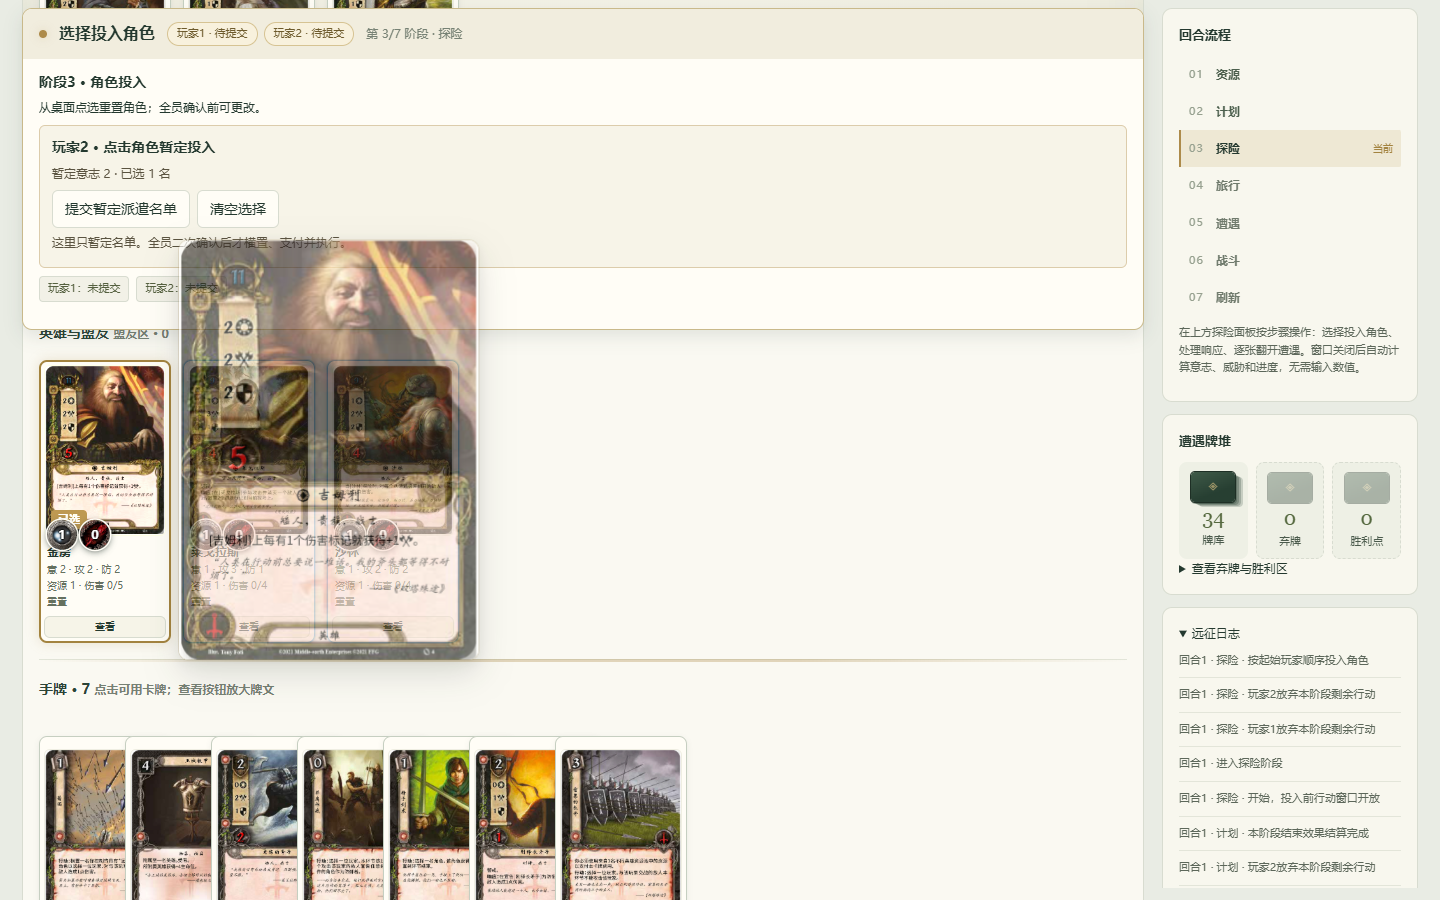
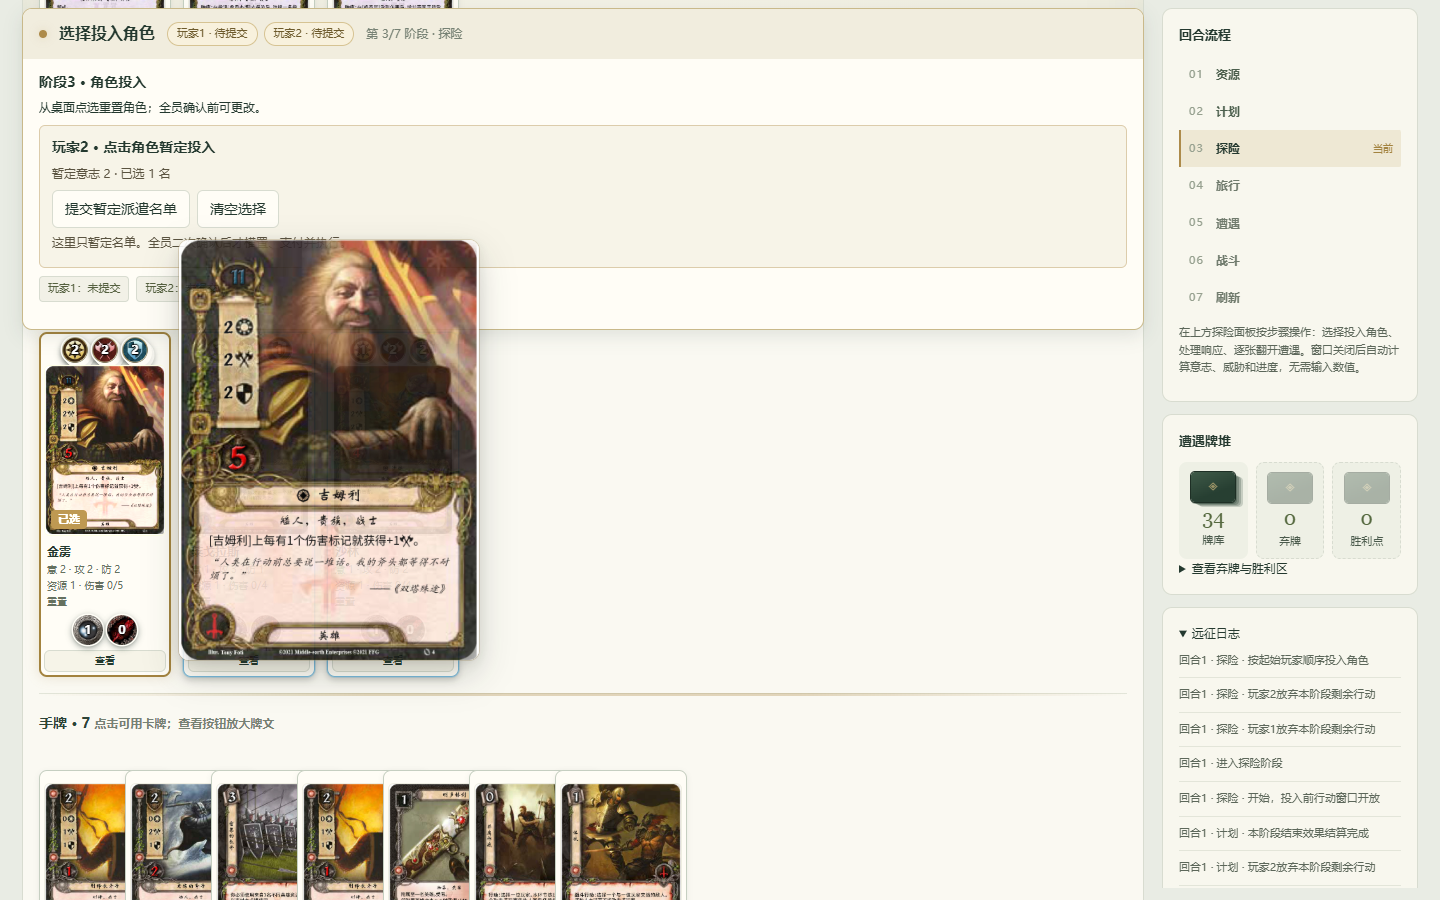
v0.15.33 代币布局对齐诡镇网页版：属性代币（意志/攻击/防御）在角色卡上方、状态代币在卡下方，不再遮挡文字；属性加成（附属永久/事件临时）计入显示并可还原

Changed region(s): [[0.0312, 0.2489, 0.6562, 1.0], [0.0312, 0.0, 0.3125, 0.0311], [0.0312, 0.56, 0.0938, 0.6222]]

diff --git a/index.html b/index.html
@@ -459,21 +459,23 @@ body:has(.desktop-table) .expedition-title h1{letter-spacing:-.01em}
  .deck-counts{grid-template-columns:repeat(3,1fr)}
 }
 
-/* 7. v0.15.32 诡镇网页版式代币：圆形图钉在卡面下缘（半压卡面），数字居中；
+/* 7. v0.15.33 诡镇网页版式代币：属性代币（意志/攻击/防御）独立一行在角色卡上方，
+      状态代币（资源/伤害/进度）独立一行在卡牌下方——均为流式行，不再遮挡卡名与牌文；
       同型多枚层叠错位；资源=英雄常显、盟友>0 显，伤害/进度常显（含 0，对齐原版）。 */
-.table-card-caption{position:relative}
-.card-tokens{position:absolute;top:0;left:3px;transform:translateY(-54%);display:flex;gap:3px;z-index:4;pointer-events:none;--tk:30px}
+.card-tokens{display:flex;gap:4px;justify-content:center;align-items:center;flex-wrap:wrap;padding:2px 0;pointer-events:none;--tk:30px}
+.card-tokens.attr-tokens{--tk:26px;padding-top:0}
 .tk{position:relative;width:var(--tk);height:var(--tk);flex:none;border-radius:50%;filter:drop-shadow(0 2px 3px #24392f66)}
 .tk img{width:100%;height:100%;border-radius:50%;display:block;box-shadow:0 0 0 1.5px #fffdf6,0 1px 3px #0008}
 .tk b{position:absolute;inset:0;display:grid;place-items:center;font-size:12px;font-weight:800;color:#fff;line-height:1;font-variant-numeric:tabular-nums;text-shadow:0 1px 1px #000,0 0 3px #000c,1px 0 1px #000a,-1px 0 1px #000a,0 -1px 1px #000a}
 .tk.stack img{box-shadow:0 0 0 1.5px #fffdf6,2.5px 2.5px 0 1.5px #fffdf6,5px 5px 0 1.5px #fffdf6cc,0 3px 5px #0008}
 .tk img:active{cursor:grabbing}
 .tk img:hover{cursor:grab}
-.peer-cards .card-tokens{--tk:26px}
+.peer-cards .card-tokens{--tk:24px}
+.peer-cards .card-tokens.attr-tokens{--tk:22px}
 .quest-art-wrap{position:relative;width:var(--card-w);min-width:0;flex:none}
 .quest-tokens{position:absolute;left:4px;bottom:4px;transform:none}
-@media(min-width:1700px){.card-tokens{--tk:34px}.peer-cards .card-tokens{--tk:28px}}
-@media(max-width:1100px){.card-tokens{--tk:26px}}
+@media(min-width:1700px){.card-tokens{--tk:34px}.card-tokens.attr-tokens{--tk:28px}.peer-cards .card-tokens{--tk:28px}}
+@media(max-width:1100px){.card-tokens{--tk:26px}.card-tokens.attr-tokens{--tk:23px}}
 @media(max-width:760px){.card-tokens{--tk:24px}}
 
 </style></head><body>
@@ -8683,16 +8685,17 @@ const WindowUI=(()=>{
 </script><script>
 /* Tabletop view: UI drafts never pay, exhaust, reveal, or bypass phase validation. */
 /* 界面版本徽标唯一来源：须与 CHANGELOG.md 最新条目标题一致（planning-dom-tests 有校验）。 */
-const APP_VERSION='v0.15.32';
+const APP_VERSION='v0.15.33';
 const DesktopUI=(()=>{
  const E=ScenarioEngine,R=E.planning,Q=E.questing,C=E.combat,esc=x=>String(x??'').replace(/[&<>"']/g,c=>({'&':'&amp;','<':'&lt;','>':'&gt;','"':'&quot;',"'":'&#39;'}[c]));
  let combatDraft={key:'',target:null,ids:[]},draftState=null;
  const live=s=>s.players.filter(p=>!p.eliminated);
  const who=(s,id)=>esc(s.players[id]?.name||('玩家'+(id+1)));
  const chip=(text,tone='wait')=>`<span class="op-chip ${tone}">${esc(text)}</span>`;
- /* 诡镇网页版式代币：圆形图钉在卡面下缘，数字居中，同型多枚层叠。数量由规则引擎结算，拖放仅作视觉表现。 */
- const tk=(type,n)=>`<span class="tk tk-${type}${n>1?' stack':''}" data-n="${n}"><img src="assets/tokens/${type}.png" alt="" draggable="true" data-token="${type}"><b>${n}</b></span>`;
- const tokenRow=inner=>inner?`<div class="card-tokens" aria-hidden="true">${inner}</div>`:'';
+ /* 诡镇网页版式代币：圆形徽章、数字居中，同型多枚层叠。数量由规则引擎结算，拖放仅作视觉表现。
+    属性代币（意志/攻击/防御）是静态数值快照，不参与拖放。 */
+ const tk=(type,n,drag=true)=>`<span class="tk tk-${type}${n>1?' stack':''}" data-n="${n}"><img src="assets/tokens/${type}.png" alt="" ${drag?`draggable="true" data-token="${type}"`:''}><b>${n}</b></span>`;
+ const tokenRow=(cls,inner)=>inner?`<div class="card-tokens ${cls}" aria-hidden="true">${inner}</div>`:'';
  const chipRow=(s,order,done,ok,wait)=>(order||[]).map(id=>`<span class="op-chip ${(done||[]).includes(id)?'done':'wait'}">${who(s,id)} · ${(done||[]).includes(id)?ok:wait}</span>`).join('');
  const b=(label,kind,args='',disabled=false)=>`<button data-action="desktop" data-desktop="${kind}" ${args} ${disabled?'disabled':''}>${esc(label)}</button>`;
  function mode(s,pid){if(s.status!=='playing'||s.pending.length||R.context(s)?.queue?.length||R.context(s)?.tasks?.length)return null;
@@ -8705,7 +8708,7 @@ const DesktopUI=(()=>{
  function art(code){const rec=ImageLibrary.by[code],url=ImageLibrary.safeUrl(rec?.faces?.B||rec?.imageUrl);return url?`<img src="${esc(url)}" alt="${esc(rec.nameZhCard||rec.name||code)}" loading="lazy" referrerpolicy="no-referrer">`:'<span class="table-card-fallback">卡图暂缺<br>请查看牌名与数值</span>';}
  function inspect(code){return `<button class="inspect-card" data-action="images" data-image-action="open" data-code="${esc(code)}" aria-label="查看卡牌详情">查看</button>`;}
  function character(s,c,m){const h=c.state,v=R.find(s,c.uid)?R.stats(s,c.uid):c.meta,selectable=eligible(s,m,c.uid),selected=!!m&&ids(s,m).includes(c.uid),ability=R.abilitySpec(s,c.controller,c.uid),a=selectable?'data-action="desktop" data-desktop="pick"':!m&&ability.legal?'data-action="planning" data-plan="ability"':'',captured=c.kind==='hero'&&!s.rescued&&s.prisoner?.player===c.controller&&s.prisoner?.hero===h.index;
-  return `<article class="table-card character-card ${h.exhausted?'exhausted':''} ${selectable?'selectable':''} ${selected?'selected':''} ${h.destroyed||captured?'unavailable':''}" data-card-uid="${c.uid}"><button class="card-face" ${a} data-player="${c.controller}" data-uid="${c.uid}" ${a?'':'disabled'} aria-label="${esc(c.meta.nameZh)}${selectable?'，点击选择':''}" aria-pressed="${selected}">${art(c.meta.code)}${selected?'<span class="selection-mark">已选</span>':''}</button><div class="table-card-caption">${c.kind==='hero'?tokenRow(tk('resource',h.resources||0)+tk('damage',h.damage||0)):tokenRow((h.resources?tk('resource',h.resources):'')+tk('damage',h.damage||0))}<b>${esc(c.meta.nameZh)}</b><span>意 ${v.willpower||0} · 攻 ${v.attack||0} · 防 ${v.defense||0}</span><span>${c.kind==='hero'?'资源 '+h.resources+' · ':''}伤害 ${h.damage||0}/${v.health||0}</span><span>${h.destroyed?'已离场':captured?'囚禁':h.exhausted?'横置':'重置'}${h.committed?' · 已投入':''}</span></div>${inspect(c.meta.code)}</article>`;
+  return `<article class="table-card character-card ${h.exhausted?'exhausted':''} ${selectable?'selectable':''} ${selected?'selected':''} ${h.destroyed||captured?'unavailable':''}" data-card-uid="${c.uid}">${tokenRow('attr-tokens',tk('willpower',v.willpower||0,false)+tk('attack',v.attack||0,false)+tk('defense',v.defense||0,false))}<button class="card-face" ${a} data-player="${c.controller}" data-uid="${c.uid}" ${a?'':'disabled'} aria-label="${esc(c.meta.nameZh)}${selectable?'，点击选择':''}" aria-pressed="${selected}">${art(c.meta.code)}${selected?'<span class="selection-mark">已选</span>':''}</button><div class="table-card-caption"><b>${esc(c.meta.nameZh)}</b><span>意 ${v.willpower||0} · 攻 ${v.attack||0} · 防 ${v.defense||0}</span><span>${c.kind==='hero'?'资源 '+h.resources+' · ':''}伤害 ${h.damage||0}/${v.health||0}</span><span>${h.destroyed?'已离场':captured?'囚禁':h.exhausted?'横置':'重置'}${h.committed?' · 已投入':''}</span></div>${tokenRow('state-tokens',c.kind==='hero'?tk('resource',h.resources||0)+tk('damage',h.damage||0):(h.resources?tk('resource',h.resources):'')+tk('damage',h.damage||0))}${inspect(c.meta.code)}</article>`;
  }
  function playerChars(s,p){return [...p.heroStates.map(h=>({kind:'hero',uid:h.uid,controller:p.id,owner:p.id,state:h,meta:R.data(s,{...h,owner:p.id})})),...p.allies.map(c=>({kind:'ally',uid:c.uid,controller:p.id,owner:c.owner,state:c,meta:R.data(s,c)}))];}
  function encounter(s,c,zone,m){const found=R.find(s,c.uid),v=found?R.stats(s,c.uid):c;let attrs='',legal=false,selected=false;
@@ -8716,7 +8719,7 @@ const DesktopUI=(()=>{
    else if(m?.kind==='attack'&&C.attackTargets(s,m.player).some(e=>e.uid===c.uid)){attrs='data-action="desktop" data-desktop="target"';legal=true;selected=draft(s,m).target===c.uid;}
   }
   const stats=c.type==='Enemy'?`威胁 ${v.threat||0} · 攻击 ${v.attack||0} · 防御 ${v.defense||0}<br>伤害 ${c.damage||0}/${v.health||0} · 交战 ${c.engagement??'—'}`:c.type==='Location'?`威胁 ${v.threat||0} · 进度 ${c.progress||0}/${c.quest}`:c.holder?`持有：${esc(s.players[c.holder.player].name)}`:c.guard?'守卫尚未清除':'可领取';
-  return `<article class="table-card encounter-card ${legal?'selectable':''} ${selected?'selected':''}" data-card-uid="${c.uid}"><button class="card-face" ${attrs} data-uid="${c.uid}" ${legal?'':'disabled'} aria-label="${esc(c.name)}" aria-pressed="${selected}">${art('enc-'+c.id)}${selected?'<span class="selection-mark">目标</span>':''}</button><div class="table-card-caption">${c.type==='Enemy'?tokenRow(tk('damage',c.damage||0)):c.type==='Location'?tokenRow(tk('progress',c.progress||0)):''}<b>${esc(c.name)}</b><span>${stats}</span>${c.shadows?`<span>暗影 ${c.shadows.length} · 已翻开 ${c.shadows.filter(x=>x.revealed||c.shadowRevealed).length}</span>`:''}</div>${inspect('enc-'+c.id)}${zone==='objective'&&!c.holder&&!c.guard?`<button data-action="claim" data-uid="${c.uid}" ${R.window(s).kind==='action'?'':'disabled'}>领取目标</button>`:''}<details><summary>牌文</summary><p>${esc(c.rule)}</p></details></article>`;
+  return `<article class="table-card encounter-card ${legal?'selectable':''} ${selected?'selected':''}" data-card-uid="${c.uid}"><button class="card-face" ${attrs} data-uid="${c.uid}" ${legal?'':'disabled'} aria-label="${esc(c.name)}" aria-pressed="${selected}">${art('enc-'+c.id)}${selected?'<span class="selection-mark">目标</span>':''}</button><div class="table-card-caption"><b>${esc(c.name)}</b><span>${stats}</span>${c.shadows?`<span>暗影 ${c.shadows.length} · 已翻开 ${c.shadows.filter(x=>x.revealed||c.shadowRevealed).length}</span>`:''}</div>${tokenRow('state-tokens',c.type==='Enemy'?tk('damage',c.damage||0):c.type==='Location'?tk('progress',c.progress||0):'')}${inspect('enc-'+c.id)}${zone==='objective'&&!c.holder&&!c.guard?`<button data-action="claim" data-uid="${c.uid}" ${R.window(s).kind==='action'?'':'disabled'}>领取目标</button>`:''}<details><summary>牌文</summary><p>${esc(c.rule)}</p></details></article>`;
  }
  const row=(label,body,extra='')=>`<section class="table-zone ${extra}"><div class="zone-heading"><h2>${label}</h2></div><div class="table-card-row">${body||'<span class="zone-empty">暂无卡牌</span>'}</div></section>`;
  function selection(s,m){if(!m)return '';const selected=ids(s,m).map(uid=>R.find(s,uid)).filter(Boolean),d=draft(s,m);let preview='';

diff --git a/desktop-ui.js b/desktop-ui.js
@@ -1,15 +1,16 @@
 /* Tabletop view: UI drafts never pay, exhaust, reveal, or bypass phase validation. */
 /* 界面版本徽标唯一来源：须与 CHANGELOG.md 最新条目标题一致（planning-dom-tests 有校验）。 */
-const APP_VERSION='v0.15.32';
+const APP_VERSION='v0.15.33';
 const DesktopUI=(()=>{
  const E=ScenarioEngine,R=E.planning,Q=E.questing,C=E.combat,esc=x=>String(x??'').replace(/[&<>"']/g,c=>({'&':'&amp;','<':'&lt;','>':'&gt;','"':'&quot;',"'":'&#39;'}[c]));
  let combatDraft={key:'',target:null,ids:[]},draftState=null;
  const live=s=>s.players.filter(p=>!p.eliminated);
  const who=(s,id)=>esc(s.players[id]?.name||('玩家'+(id+1)));
  const chip=(text,tone='wait')=>`<span class="op-chip ${tone}">${esc(text)}</span>`;
- /* 诡镇网页版式代币：圆形图钉在卡面下缘，数字居中，同型多枚层叠。数量由规则引擎结算，拖放仅作视觉表现。 */
- const tk=(type,n)=>`<span class="tk tk-${type}${n>1?' stack':''}" data-n="${n}"><img src="assets/tokens/${type}.png" alt="" draggable="true" data-token="${type}"><b>${n}</b></span>`;
- const tokenRow=inner=>inner?`<div class="card-tokens" aria-hidden="true">${inner}</div>`:'';
+ /* 诡镇网页版式代币：圆形徽章、数字居中，同型多枚层叠。数量由规则引擎结算，拖放仅作视觉表现。
+    属性代币（意志/攻击/防御）是静态数值快照，不参与拖放。 */
+ const tk=(type,n,drag=true)=>`<span class="tk tk-${type}${n>1?' stack':''}" data-n="${n}"><img src="assets/tokens/${type}.png" alt="" ${drag?`draggable="true" data-token="${type}"`:''}><b>${n}</b></span>`;
+ const tokenRow=(cls,inner)=>inner?`<div class="card-tokens ${cls}" aria-hidden="true">${inner}</div>`:'';
  const chipRow=(s,order,done,ok,wait)=>(order||[]).map(id=>`<span class="op-chip ${(done||[]).includes(id)?'done':'wait'}">${who(s,id)} · ${(done||[]).includes(id)?ok:wait}</span>`).join('');
  const b=(label,kind,args='',disabled=false)=>`<button data-action="desktop" data-desktop="${kind}" ${args} ${disabled?'disabled':''}>${esc(label)}</button>`;
  function mode(s,pid){if(s.status!=='playing'||s.pending.length||R.context(s)?.queue?.length||R.context(s)?.tasks?.length)return null;
@@ -22,7 +23,7 @@ const DesktopUI=(()=>{
  function art(code){const rec=ImageLibrary.by[code],url=ImageLibrary.safeUrl(rec?.faces?.B||rec?.imageUrl);return url?`<img src="${esc(url)}" alt="${esc(rec.nameZhCard||rec.name||code)}" loading="lazy" referrerpolicy="no-referrer">`:'<span class="table-card-fallback">卡图暂缺<br>请查看牌名与数值</span>';}
  function inspect(code){return `<button class="inspect-card" data-action="images" data-image-action="open" data-code="${esc(code)}" aria-label="查看卡牌详情">查看</button>`;}
  function character(s,c,m){const h=c.state,v=R.find(s,c.uid)?R.stats(s,c.uid):c.meta,selectable=eligible(s,m,c.uid),selected=!!m&&ids(s,m).includes(c.uid),ability=R.abilitySpec(s,c.controller,c.uid),a=selectable?'data-action="desktop" data-desktop="pick"':!m&&ability.legal?'data-action="planning" data-plan="ability"':'',captured=c.kind==='hero'&&!s.rescued&&s.prisoner?.player===c.controller&&s.prisoner?.hero===h.index;
-  return `<article class="table-card character-card ${h.exhausted?'exhausted':''} ${selectable?'selectable':''} ${selected?'selected':''} ${h.destroyed||captured?'unavailable':''}" data-card-uid="${c.uid}"><button class="card-face" ${a} data-player="${c.controller}" data-uid="${c.uid}" ${a?'':'disabled'} aria-label="${esc(c.meta.nameZh)}${selectable?'，点击选择':''}" aria-pressed="${selected}">${art(c.meta.code)}${selected?'<span class="selection-mark">已选</span>':''}</button><div class="table-card-caption">${c.kind==='hero'?tokenRow(tk('resource',h.resources||0)+tk('damage',h.damage||0)):tokenRow((h.resources?tk('resource',h.resources):'')+tk('damage',h.damage||0))}<b>${esc(c.meta.nameZh)}</b><span>意 ${v.willpower||0} · 攻 ${v.attack||0} · 防 ${v.defense||0}</span><span>${c.kind==='hero'?'资源 '+h.resources+' · ':''}伤害 ${h.damage||0}/${v.health||0}</span><span>${h.destroyed?'已离场':captured?'囚禁':h.exhausted?'横置':'重置'}${h.committed?' · 已投入':''}</span></div>${inspect(c.meta.code)}</article>`;
+  return `<article class="table-card character-card ${h.exhausted?'exhausted':''} ${selectable?'selectable':''} ${selected?'selected':''} ${h.destroyed||captured?'unavailable':''}" data-card-uid="${c.uid}">${tokenRow('attr-tokens',tk('willpower',v.willpower||0,false)+tk('attack',v.attack||0,false)+tk('defense',v.defense||0,false))}<button class="card-face" ${a} data-player="${c.controller}" data-uid="${c.uid}" ${a?'':'disabled'} aria-label="${esc(c.meta.nameZh)}${selectable?'，点击选择':''}" aria-pressed="${selected}">${art(c.meta.code)}${selected?'<span class="selection-mark">已选</span>':''}</button><div class="table-card-caption"><b>${esc(c.meta.nameZh)}</b><span>意 ${v.willpower||0} · 攻 ${v.attack||0} · 防 ${v.defense||0}</span><span>${c.kind==='hero'?'资源 '+h.resources+' · ':''}伤害 ${h.damage||0}/${v.health||0}</span><span>${h.destroyed?'已离场':captured?'囚禁':h.exhausted?'横置':'重置'}${h.committed?' · 已投入':''}</span></div>${tokenRow('state-tokens',c.kind==='hero'?tk('resource',h.resources||0)+tk('damage',h.damage||0):(h.resources?tk('resource',h.resources):'')+tk('damage',h.damage||0))}${inspect(c.meta.code)}</article>`;
  }
  function playerChars(s,p){return [...p.heroStates.map(h=>({kind:'hero',uid:h.uid,controller:p.id,owner:p.id,state:h,meta:R.data(s,{...h,owner:p.id})})),...p.allies.map(c=>({kind:'ally',uid:c.uid,controller:p.id,owner:c.owner,state:c,meta:R.data(s,c)}))];}
  function encounter(s,c,zone,m){const found=R.find(s,c.uid),v=found?R.stats(s,c.uid):c;let attrs='',legal=false,selected=false;
@@ -33,7 +34,7 @@ const DesktopUI=(()=>{
    else if(m?.kind==='attack'&&C.attackTargets(s,m.player).some(e=>e.uid===c.uid)){attrs='data-action="desktop" data-desktop="target"';legal=true;selected=draft(s,m).target===c.uid;}
   }
   const stats=c.type==='Enemy'?`威胁 ${v.threat||0} · 攻击 ${v.attack||0} · 防御 ${v.defense||0}<br>伤害 ${c.damage||0}/${v.health||0} · 交战 ${c.engagement??'—'}`:c.type==='Location'?`威胁 ${v.threat||0} · 进度 ${c.progress||0}/${c.quest}`:c.holder?`持有：${esc(s.players[c.holder.player].name)}`:c.guard?'守卫尚未清除':'可领取';
-  return `<article class="table-card encounter-card ${legal?'selectable':''} ${selected?'selected':''}" data-card-uid="${c.uid}"><button class="card-face" ${attrs} data-uid="${c.uid}" ${legal?'':'disabled'} aria-label="${esc(c.name)}" aria-pressed="${selected}">${art('enc-'+c.id)}${selected?'<span class="selection-mark">目标</span>':''}</button><div class="table-card-caption">${c.type==='Enemy'?tokenRow(tk('damage',c.damage||0)):c.type==='Location'?tokenRow(tk('progress',c.progress||0)):''}<b>${esc(c.name)}</b><span>${stats}</span>${c.shadows?`<span>暗影 ${c.shadows.length} · 已翻开 ${c.shadows.filter(x=>x.revealed||c.shadowRevealed).length}</span>`:''}</div>${inspect('enc-'+c.id)}${zone==='objective'&&!c.holder&&!c.guard?`<button data-action="claim" data-uid="${c.uid}" ${R.window(s).kind==='action'?'':'disabled'}>领取目标</button>`:''}<details><summary>牌文</summary><p>${esc(c.rule)}</p></details></article>`;
+  return `<article class="table-card encounter-card ${legal?'selectable':''} ${selected?'selected':''}" data-card-uid="${c.uid}"><button class="card-face" ${attrs} data-uid="${c.uid}" ${legal?'':'disabled'} aria-label="${esc(c.name)}" aria-pressed="${selected}">${art('enc-'+c.id)}${selected?'<span class="selection-mark">目标</span>':''}</button><div class="table-card-caption"><b>${esc(c.name)}</b><span>${stats}</span>${c.shadows?`<span>暗影 ${c.shadows.length} · 已翻开 ${c.shadows.filter(x=>x.revealed||c.shadowRevealed).length}</span>`:''}</div>${tokenRow('state-tokens',c.type==='Enemy'?tk('damage',c.damage||0):c.type==='Location'?tk('progress',c.progress||0):'')}${inspect('enc-'+c.id)}${zone==='objective'&&!c.holder&&!c.guard?`<button data-action="claim" data-uid="${c.uid}" ${R.window(s).kind==='action'?'':'disabled'}>领取目标</button>`:''}<details><summary>牌文</summary><p>${esc(c.rule)}</p></details></article>`;
  }
  const row=(label,body,extra='')=>`<section class="table-zone ${extra}"><div class="zone-heading"><h2>${label}</h2></div><div class="table-card-row">${body||'<span class="zone-empty">暂无卡牌</span>'}</div></section>`;
  function selection(s,m){if(!m)return '';const selected=ids(s,m).map(uid=>R.find(s,uid)).filter(Boolean),d=draft(s,m);let preview='';

diff --git a/style.css b/style.css
@@ -457,19 +457,21 @@ body:has(.desktop-table) .expedition-title h1{letter-spacing:-.01em}
  .deck-counts{grid-template-columns:repeat(3,1fr)}
 }
 
-/* 7. v0.15.32 诡镇网页版式代币：圆形图钉在卡面下缘（半压卡面），数字居中；
+/* 7. v0.15.33 诡镇网页版式代币：属性代币（意志/攻击/防御）独立一行在角色卡上方，
+      状态代币（资源/伤害/进度）独立一行在卡牌下方——均为流式行，不再遮挡卡名与牌文；
       同型多枚层叠错位；资源=英雄常显、盟友>0 显，伤害/进度常显（含 0，对齐原版）。 */
-.table-card-caption{position:relative}
-.card-tokens{position:absolute;top:0;left:3px;transform:translateY(-54%);display:flex;gap:3px;z-index:4;pointer-events:none;--tk:30px}
+.card-tokens{display:flex;gap:4px;justify-content:center;align-items:center;flex-wrap:wrap;padding:2px 0;pointer-events:none;--tk:30px}
+.card-tokens.attr-tokens{--tk:26px;padding-top:0}
 .tk{position:relative;width:var(--tk);height:var(--tk);flex:none;border-radius:50%;filter:drop-shadow(0 2px 3px #24392f66)}
 .tk img{width:100%;height:100%;border-radius:50%;display:block;box-shadow:0 0 0 1.5px #fffdf6,0 1px 3px #0008}
 .tk b{position:absolute;inset:0;display:grid;place-items:center;font-size:12px;font-weight:800;color:#fff;line-height:1;font-variant-numeric:tabular-nums;text-shadow:0 1px 1px #000,0 0 3px #000c,1px 0 1px #000a,-1px 0 1px #000a,0 -1px 1px #000a}
 .tk.stack img{box-shadow:0 0 0 1.5px #fffdf6,2.5px 2.5px 0 1.5px #fffdf6,5px 5px 0 1.5px #fffdf6cc,0 3px 5px #0008}
 .tk img:active{cursor:grabbing}
 .tk img:hover{cursor:grab}
-.peer-cards .card-tokens{--tk:26px}
+.peer-cards .card-tokens{--tk:24px}
+.peer-cards .card-tokens.attr-tokens{--tk:22px}
 .quest-art-wrap{position:relative;width:var(--card-w);min-width:0;flex:none}
 .quest-tokens{position:absolute;left:4px;bottom:4px;transform:none}
-@media(min-width:1700px){.card-tokens{--tk:34px}.peer-cards .card-tokens{--tk:28px}}
-@media(max-width:1100px){.card-tokens{--tk:26px}}
+@media(min-width:1700px){.card-tokens{--tk:34px}.card-tokens.attr-tokens{--tk:28px}.peer-cards .card-tokens{--tk:28px}}
+@media(max-width:1100px){.card-tokens{--tk:26px}.card-tokens.attr-tokens{--tk:23px}}
 @media(max-width:760px){.card-tokens{--tk:24px}}

diff --git a/CHANGELOG.md b/CHANGELOG.md
@@ -1,3 +1,10 @@
+# v0.15.33 · 代币布局对齐诡镇网页版：属性在卡上、状态在卡下（2026-10-23）
+
+- **代币不再遮挡卡牌文字**：v0.15.32 的状态代币（资源/伤害/进度）原钉在说明区顶部、半压卡面与卡名。现按《诡镇奇谈》网页版布局改为独立流式行——**角色（英雄/盟友）的属性代币（意志/攻击/防御）一行在卡牌上方，状态代币（资源/伤害）一行在卡牌下方**；敌军伤害与地点进度代币同样移到卡牌下方。当前探险卡的进度代币维持左下角叠加不变。
+- **属性代币**：每张英雄/盟友卡上方新增「意志/攻击/防御」三枚圆形代币（`assets/tokens/` 同源美术），数值取自规则引擎 `stats()` 快照，与卡牌说明文字「意 X · 攻 X · 防 X」一致；属性代币为静态展示，不可拖放。
+- **属性加成审计（临时/永久）**：确认显示值统一走 `stats()`，两类加成均正确计入并能还原——① **永久**：附属装备加成（01027 意志+2、01040 生命+4、01041 攻击+2/+1 矮人、01055 意志+1、01056 威胁−1、01071 意志−1）随 `attached()` 实时计入，附属离场（弃置/持有者淘汰）即自动还原；② **临时**：事件与能力产生的阶段内加成（如伊欧玟 +1 意志、偷袭/快速打击、比翁 +5 攻击）走 `phaseModifiers`，仅在本回合本阶段生效，阶段完成或新回合即清理还原。新增 3 项回归测试：属性代币取值与 `stats()` 一致、附属加成计入且离场还原、临时加成计入且过期还原。
+- 无障碍与交互不变：代币行 `aria-hidden`，数值仍由卡牌说明文字完整提供；拖放表现保留（状态代币可拖、属性代币不可拖）。
+
 # v0.15.32 · 诡镇网页版式桌面代币（2026-10-23）
 
 - **代币上卡**：对局桌面的卡牌现在按《诡镇奇谈》网页版（DragnCards）的方式摆放代币——圆形代币图钉在卡面下缘、半压卡面，数字居中白字描边。英雄常显「资源＋伤害」两枚，盟友显「伤害」（有资源时加显资源），敌人显「伤害」，地点显「进度」，当前探险卡左下角叠「进度」代币；0 值也显示，对齐原版观感。素材取自 DragnCards 公开 S3（与诡镇网页版同源美术），已本地化到 `assets/tokens/`。
